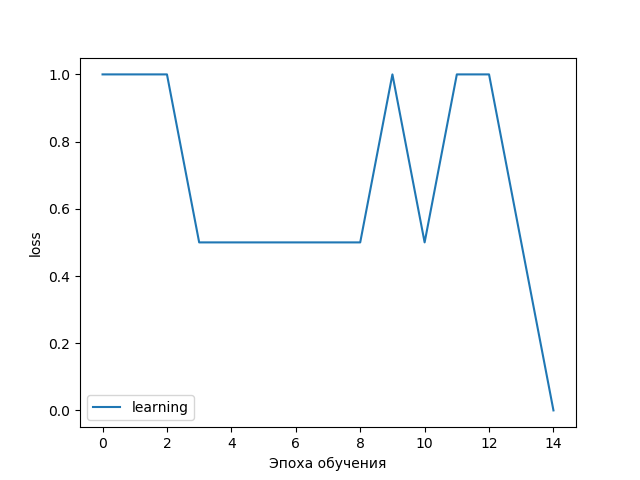
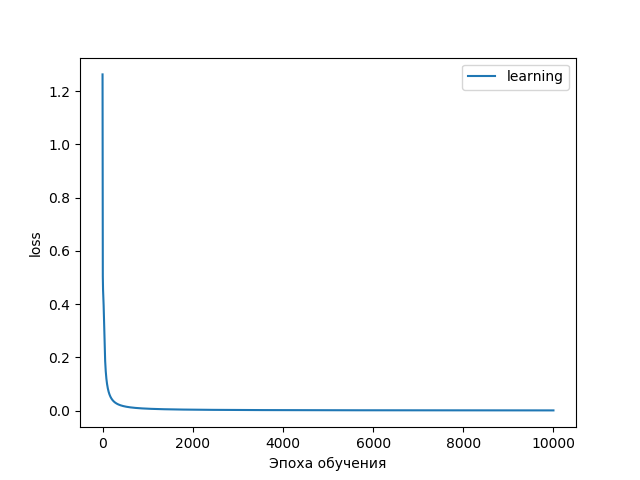
tested_or_with_new_bias_passed

diff --git a/app.py b/app.py
@@ -28,7 +28,7 @@ INIT_W_RANDOM = 9
 LEAKY_RELU = 10
 LEAKY_RELU_DERIV = 11
 INIT_W_CONST = 12
-INIT_RANDN = 13
+INIT_W_RANDN = 13
 SOFTMAX = 14
 SOFTMAX_DERIV = 15
 PIECE_WISE_LINEAR = 16
@@ -47,6 +47,7 @@ class Dense:
         self.in_ = None  # количество входов слоя
         self.out_ = None  # количество выходов слоя
         self.matrix = [0] * 10  # матрица весов
+        self.biases = [0] * 10
         self.cost_signals = [0] * 10  # вектор взвешенного состояния нейронов
         self.act_func = RELU
         self.hidden = [0] * 10  # вектор после функции активации
@@ -77,7 +78,7 @@ class Dense:
 
 
 class NetCon:
-    def __init__(self, alpha_sigmoid = 1, alpha_tan = 1, beta_tan = 1):
+    def __init__(self, alpha_sigmoid=1, alpha_tan=1, beta_tan=1):
         self.net = [None] * 2  # Двойной перпецетрон
         self.alpha_sigmoid = alpha_sigmoid
         self.alpha_tan = alpha_tan
@@ -93,15 +94,9 @@ class NetCon:
         for row in range(layer.out_):
             tmp_v = 0
             for elem in range(layer.in_):
-                if layer.with_bias:
-                    if elem == 0:
-                        tmp_v += layer.matrix[row][elem] * 1
-                    else:
-                        tmp_v += layer.matrix[row][elem] * inputs[elem]
-
-                else:
-                    tmp_v += layer.matrix[row][elem] * inputs[elem]
-
+                tmp_v += layer.matrix[row][elem] * inputs[elem]
+            if layer.with_bias:
+                tmp_v += layer.biases[row]
             layer.cost_signals[row] = tmp_v
             val = self.operations(layer.act_func, tmp_v)
             layer.hidden[row] = val
@@ -132,22 +127,23 @@ class NetCon:
         else:
             layer.with_bias = False
 
-        if with_bias:
-            in_ += 1
+        # if with_bias:
+        #     in_ += 1
         for row in range(out_):
             for elem in range(in_):
                 layer.matrix[row][elem] = self.operations(
                     init_w, 0)
-
+            layer.biases[row] = self.operations(
+                init_w, 0)
         self.nl_count += 1
 
     # Различные операции по числовому коду
 
     def operations(self, op, x):
         alpha_leaky_relu = 1.7159
-        # alpha_sigmoid = 2
-        # alpha_tan = 1.7159
-        # beta_tan = 2/3
+        alpha_sigmoid = 2
+        alpha_tan = 1.7159
+        beta_tan = 2/3
         if op == RELU:
             if (x <= 0):
                 return 0
@@ -195,8 +191,8 @@ class NetCon:
             y = 1 / (1 + math.exp(-self.alpha_sigmoid * x))
             return y
         elif op == SIGMOID_DERIV:
-            y = 1 / (1 + math.exp(-self.alpha_sigmoid * x))
-            return self.alpha_sigmoid * y * (1 - y)
+            # y = 1 / (1 + math.exp(-self.alpha_sigmoid * x))
+            return self.alpha_sigmoid * x * (1 - x)
         elif op == INIT_W_MY:
             if self.ready:
                 self.ready = False
@@ -214,26 +210,19 @@ class NetCon:
             return beta_tan / alpha_tan * (alpha_tan * alpha_tan - y * y)
         elif op == INIT_W_CONST:
             return 0.567141530112327
-        elif op == INIT_RANDN:
+        elif op == INIT_W_RANDN:
             return np.random.randn()
         else:
             print("Op or function does not support ", op)
 
-    def calc_out_error(self,  targets, op_val):
+    def calc_out_error(self,  targets):
         layer = self.net[self.nl_count-1]
         out_ = layer.out_
-        op = NOOP
-        op = op_val
         for row in range(out_):
             # накапливаем ошибку на выходе
-            if op == ACC_GRAD:
-                layer.batch_acc_tmp_l[row] +=\
-                    (layer.hidden[row] - targets[row]) * self.operations(
-                    layer.act_func + 1, layer.hidden[row])
-            elif op == APPLY_GRAD:
-                # применяем ошибку
-                layer.errors[row] = layer.batch_acc_tmp_l[row]
-                # layer.batch_acc_tmp_l[row]=0
+            layer.errors[row] =\
+                (layer.hidden[row] - targets[row]) * self.operations(
+                layer.act_func + 1, layer.hidden[row])
 
         # return samples_count
 
@@ -254,16 +243,10 @@ class NetCon:
         for row in range(layer.out_):
             error = errors[row]
             for elem in range(layer.in_):
-                if layer.with_bias:
-                    if elem == 0:
-                        layer.matrix[row][elem] -= lr * \
-                            error * 1
-                    else:
-                        layer.matrix[row][elem] -= lr * \
-                            error * inputs[elem]
-                else:
-                    layer.matrix[row][elem] -= lr * \
-                        error * inputs[elem]
+                layer.matrix[row][elem] -= lr * \
+                    error * inputs[elem]
+            if layer.with_bias:
+                layer.biases[row]-=error * 1        
 
     def calc_diff(self, out_nn, teacher_answ):
         diff = [0] * len(out_nn)
@@ -312,8 +295,21 @@ train_out = ([1], [0], [0], [0])
 #              (1, 0, 0, 1))
 
 
+def train_min_batches(net_obj: NetCon, X_batch, Y_batch, l_r):
+    len_x_batch = len(X_batch)
+    len_y_batch = len(Y_batch)
+    for row in range(len_x_batch):
+        inputs_b = X_batch[row]
+        train_out_b = Y_batch[row]
+        output_nc = net_obj.feed_forwarding(inputs_b)
+        net_obj.calc_out_error(train_out_b, ACC_GRAD)
+
+    net_obj.calc_out_error(None, APPLY_GRAD)
+    net_obj.upd_matrix(0, net_obj.net[0].errors,)
+
+
 def main():
-    epochs = 500
+    epochs = 10000
     l_r = 0.1
     batch_size = 1
 
@@ -322,15 +318,17 @@ def main():
 
     # Создаем обьект параметров сети
 
-    net = NetCon()
+    net = NetCon(alpha_sigmoid=2)
     # Создаем слои
-    net.cr_lay(2, 1, TRESHOLD_FUNC_HALF, False, INIT_W_MY)
+    net.cr_lay(2, 1, SIGMOID, True, INIT_W_RANDN)
     # n = cr_lay( 3, 1, SIGMOID, True, INIT_W_MY)
 
     for ep in range(epochs):  # Кол-во повторений для обучения
         gl_e = 0
-        samples_count = 0
         for single_array_ind in range(len(train_inp)):
+            # cnt = single_array_ind + 1
+            # print("i", single_array_ind)
+            # print("cnt", cnt)
 
             inputs = train_inp[single_array_ind]
             output = net.feed_forwarding(inputs)
@@ -340,24 +338,22 @@ def main():
             e = net.calc_diff(output, train_out[single_array_ind])
 
             gl_e += net.get_err(e)
-            if samples_count % (batch_size + 1) != 0:
+            # if cnt % (batch_size+1) != 0:
 
-                net.calc_out_error(
-                    train_out[single_array_ind], ACC_GRAD)
-                samples_count+=1    
-            else:
+            # print("ACC")
+            net.calc_out_error(
+                train_out[single_array_ind])
+            # if (cnt % batch_size ) == 0:
 
-                net.calc_out_error(None, APPLY_GRAD)
-                # samples_count = 0
+            # print("APPLY")
+            # net.calc_out_error(None, APPLY_GRAD)
 
-                # Обновление весов
-                net.upd_matrix(0, net.net[0].errors, inputs,
+            # Обновление весов
+            net.upd_matrix(0, net.net[0].errors, inputs,
                            l_r)
 
-                net.calc_out_error(
-                    train_out[single_array_ind], ACC_GRAD)        
-
-            # samples_count += 1
+            # net.calc_out_error(
+            #     train_out[single_array_ind ], ACC_GRAD)
 
         gl_e /= 2
         print("error", gl_e)
@@ -367,8 +363,8 @@ def main():
         errors_y.append(gl_e)
         epochs_x.append(ep)
 
-        if gl_e < 0.3:
-            break
+        # if gl_e < 0.3:
+        #     break
 
     plot_gr('gr.png', errors_y, epochs_x)
 
